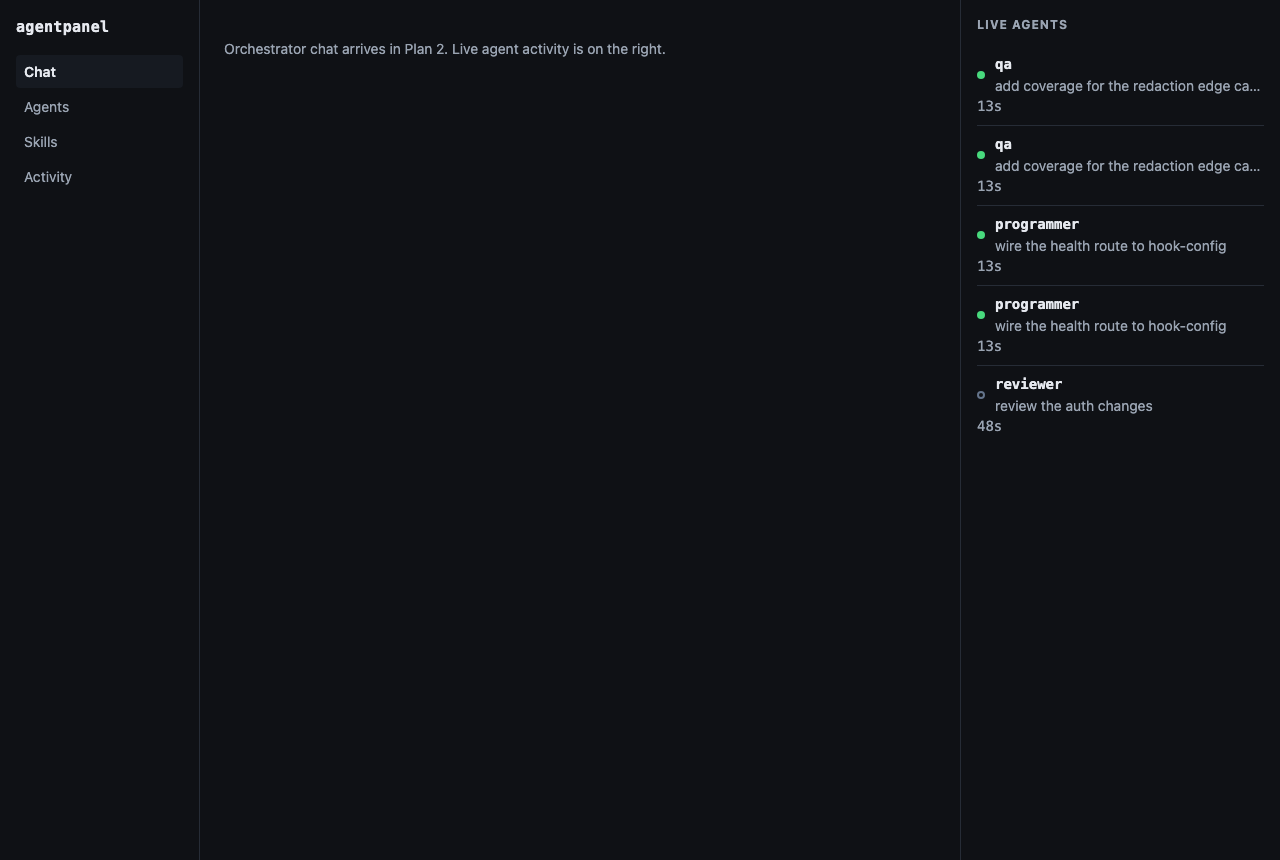
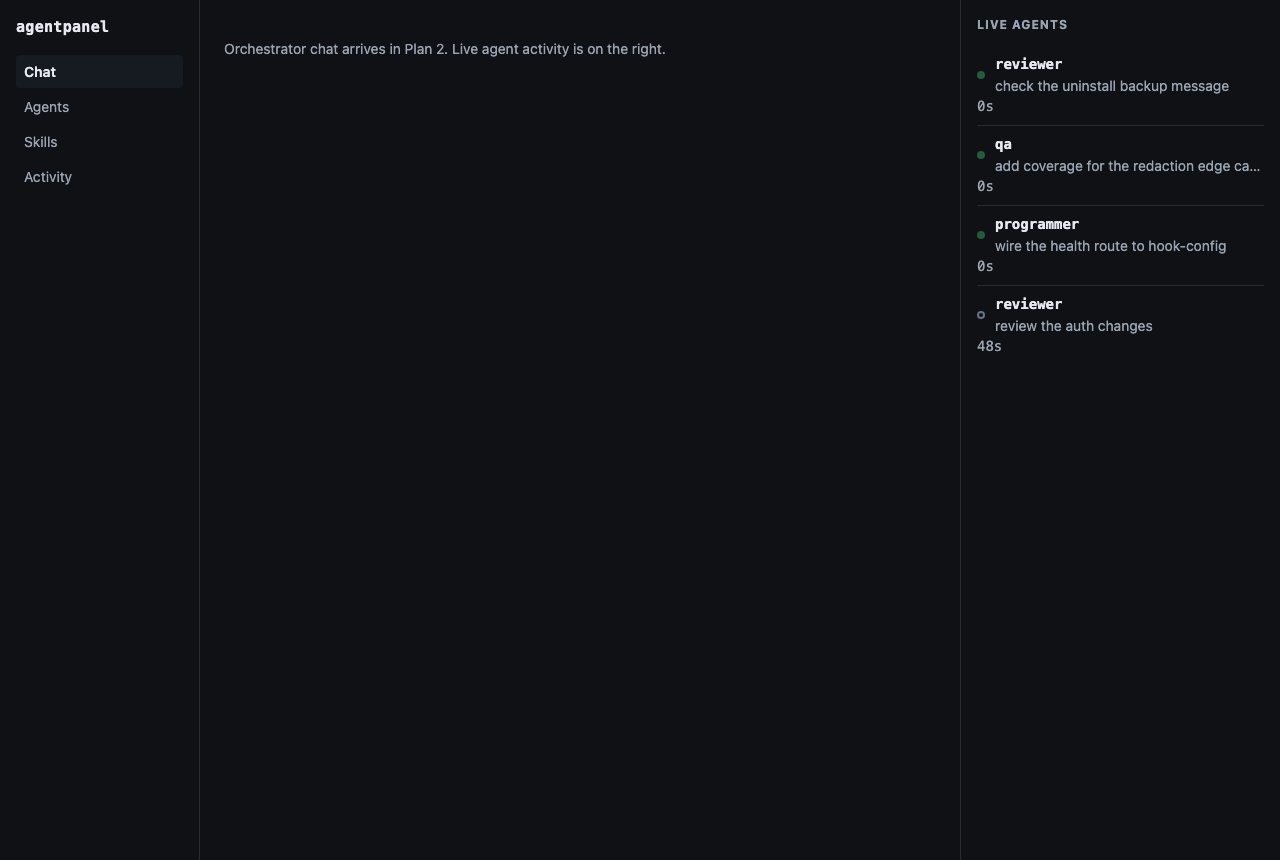
fix: correct uninstall claims, drop placeholder repo url, raise Node floor
- README no longer claims uninstall leaves "no trace on disk": init's
  settings.json.agentpanel-backup is a deliberate safety net and survives
  uninstall by design, so the README now says so and runUninstall reports the
  backup's path when it exists (never deletes it).
- Removed package.json's repository field rather than ship a literal
  <owner> placeholder to npm; must be set once the repo has a real remote.
- Raised the Node floor to >=22.13.0 (engines and the CI matrix) so the low
  end of the CI matrix lands on an LTS release where node:sqlite is
  unflagged, instead of the untested 22.5.0 boundary.
- Re-seeded and recaptured docs/assets/screenshot.png with distinct
  descriptions per demo run, dispatched after the initial page load so each
  run arrives once through the live SSE path.

diff --git a/test/cli/uninstall.test.js b/test/cli/uninstall.test.js
@@ -1,0 +1,48 @@
+// test/cli/uninstall.test.js
+import { test } from 'node:test';
+import assert from 'node:assert/strict';
+import { mkdtempSync, mkdirSync, writeFileSync, existsSync, readFileSync } from 'node:fs';
+import { tmpdir } from 'node:os';
+import { join } from 'node:path';
+import { runInit } from '../../src/cli/init.js';
+import { runUninstall } from '../../src/cli/uninstall.js';
+
+function env() {
+  const claudeDir = mkdtempSync(join(tmpdir(), 'ap-uninstall-'));
+  return {
+    settingsPath: join(claudeDir, 'settings.json'),
+    hooksDir: '/opt/agentpanel/hooks',
+    stateDir: join(claudeDir, 'agentpanel'),
+  };
+}
+
+test('uninstall leaves the settings backup on disk and reports its path', () => {
+  const { settingsPath, hooksDir, stateDir } = env();
+  writeFileSync(settingsPath, JSON.stringify({ someUserKey: true }, null, 2));
+  mkdirSync(stateDir, { recursive: true });
+  writeFileSync(join(stateDir, 'data.db'), 'not really a db');
+
+  runInit({ settingsPath, hooksDir, assumeYes: true, log: () => {} });
+  const backupPath = `${settingsPath}.agentpanel-backup`;
+  assert.ok(existsSync(backupPath), 'init writes the backup before overwriting settings.json');
+
+  const lines = [];
+  runUninstall({ settingsPath, stateDir, log: (l) => lines.push(l) });
+
+  // The backup is the user's safety net for a tool that edits their settings.json — uninstall
+  // must never delete it, only tell the user it is there.
+  assert.ok(existsSync(backupPath), 'the backup survives uninstall');
+  assert.equal(JSON.parse(readFileSync(backupPath, 'utf8')).someUserKey, true);
+  assert.ok(lines.some((l) => l.includes(backupPath)), 'uninstall reports the backup path');
+});
+
+test('uninstall does not mention a backup that was never written', () => {
+  const { settingsPath, hooksDir, stateDir } = env();
+  writeFileSync(settingsPath, JSON.stringify({ hooks: {} }));
+  void hooksDir;
+
+  const lines = [];
+  runUninstall({ settingsPath, stateDir, log: (l) => lines.push(l) });
+
+  assert.ok(!lines.some((l) => l.includes('.agentpanel-backup')));
+});

diff --git a/src/cli/uninstall.js b/src/cli/uninstall.js
@@ -11,5 +11,14 @@ export function runUninstall({ settingsPath, stateDir, log = console.log }) {
   }
   rmSync(stateDir, { recursive: true, force: true });
   log(`  - removed ${stateDir} (database, logs, runtime file)`);
+
+  // `init` writes this backup outside stateDir on purpose, as the user's safety net for a tool
+  // that edits their settings.json. Deleting it here silently would remove that safety net at
+  // exactly the moment it might be needed, so uninstall only ever reports it — never deletes it.
+  const backupPath = `${settingsPath}.agentpanel-backup`;
+  if (existsSync(backupPath)) {
+    log(`  - left in place: ${backupPath} (your pre-install settings.json; delete it yourself if you don't need it)`);
+  }
+
   log('agentpanel is fully removed. Stop any running daemon with: agentpanel stop');
 }

diff --git a/README.md b/README.md
@@ -31,8 +31,11 @@ npx agentpanel uninstall
 ```
 
 `uninstall` restores `settings.json` to its pre-install state (aside from formatting) and deletes
-the state directory — the daemon's runtime file, its log, and its database — leaving no trace on
-disk.
+the state directory — the daemon's runtime file, its log, and its database. One thing it
+deliberately does not remove: the `settings.json.agentpanel-backup` file `init` wrote before its
+first edit. That backup is your safety net for a tool that rewrites your settings, so uninstall
+only reports its path (if it exists) rather than deleting it — removing it afterward is your
+call.
 
 ## Commands
 
